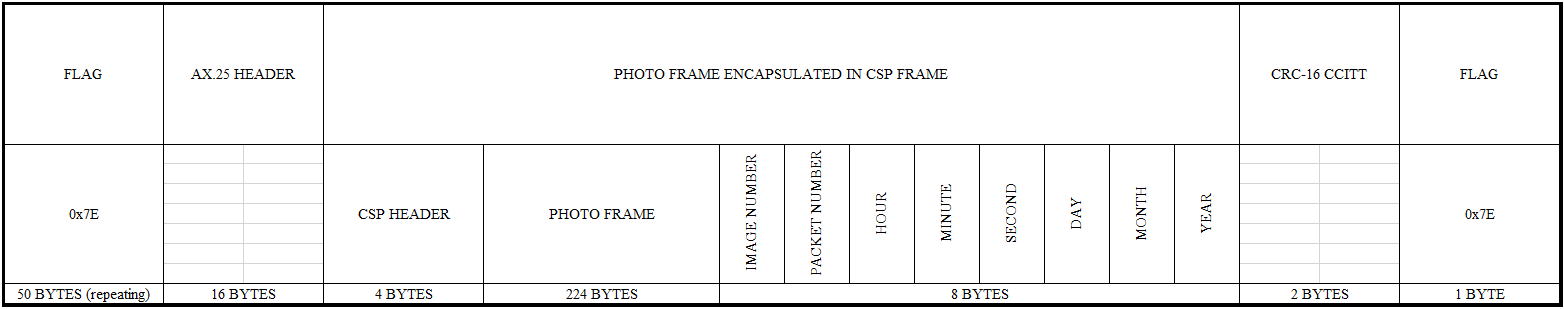
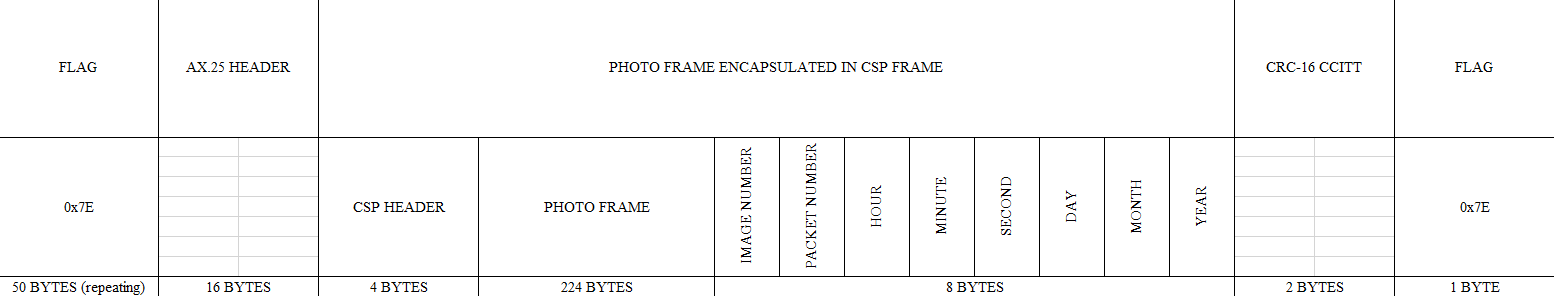
Addresses #5
1. Added image packet description to README
2. Updated TOC
3. Removed borders from image_structure.png

diff --git a/README.md b/README.md
@@ -78,6 +78,8 @@ Thanks to the people at SatNOGS, radio amateurs, Space-Track and Celestrak, Quet
 
 Quetzal-1 was deployed from the Kibo module onboard the International Space Station on April 28, 2020 at 15:20 UTC. About 30 minutes after ejection, it began antenna deployment and beacon transmission. For downlink, Quetzal-1 uses a GOMSpace AX100 transceiver, which  transmits GMSK-modulated data at 4800 bps at 437.200 MHz ([as coordinated by IARU](http://www.amsatuk.me.uk/iaru/finished_detail.php?serialnum=653)).
 
+### Beacon Description
+
 Beacons are encapsulated in AX.25 + HDLC frames, with G3RUH scrambling and NRZI encoding. The following image shows the overall beacon format:
 
 ![Beacon Structure](media/beacon_structure.png)
@@ -92,6 +94,12 @@ Although it is always sent, we do not use the AX.25 portion of the packet. Howev
 `40 40 40 40 40 40 60 40 40 40 40 40 40 61 03 F0`
 
 ---
+
+### Image Packet Description
+
+Image packets have the same encapsulation as telemetry packets (beacons). The following image shows the overall format:
+
+![Image Structure](media/image_structure.png)
 
 # Downlink Decoder and Parser
 
